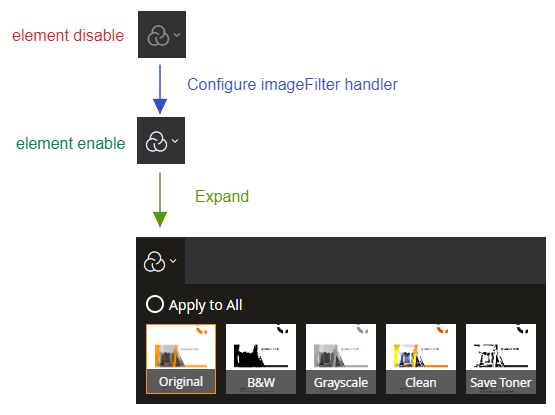
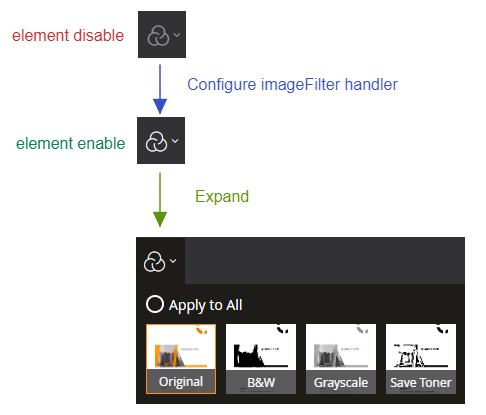
image filter update

diff --git a/features/advanced/imagefilter.md b/features/advanced/imagefilter.md
@@ -44,7 +44,6 @@ class MyImageFilter extends Dynamsoft.DDV.ImageFilter {
             {type: "none", label: "Original"},
             //{type: "blackAndWhite", label: "B&W"},
             {type: "gray", label: "Grayscale"},
-            {type: "removeShadow", label: "Clean"},
             {type: "saveInk", label: "SaveToner"},
         ];
 
@@ -94,7 +93,6 @@ class MyImageFilter extends Dynamsoft.DDV.ImageFilter {
             {type: "none", label: "Original"},
             {type: "blackAndWhite", label: "S/W"},
             {type: "gray", label: "Graustufen"},
-            {type: "removeShadow", label: "Sauber"},
             {type: "saveInk", label: "Tinte sparen"},
         ];
         return myFilterList;
